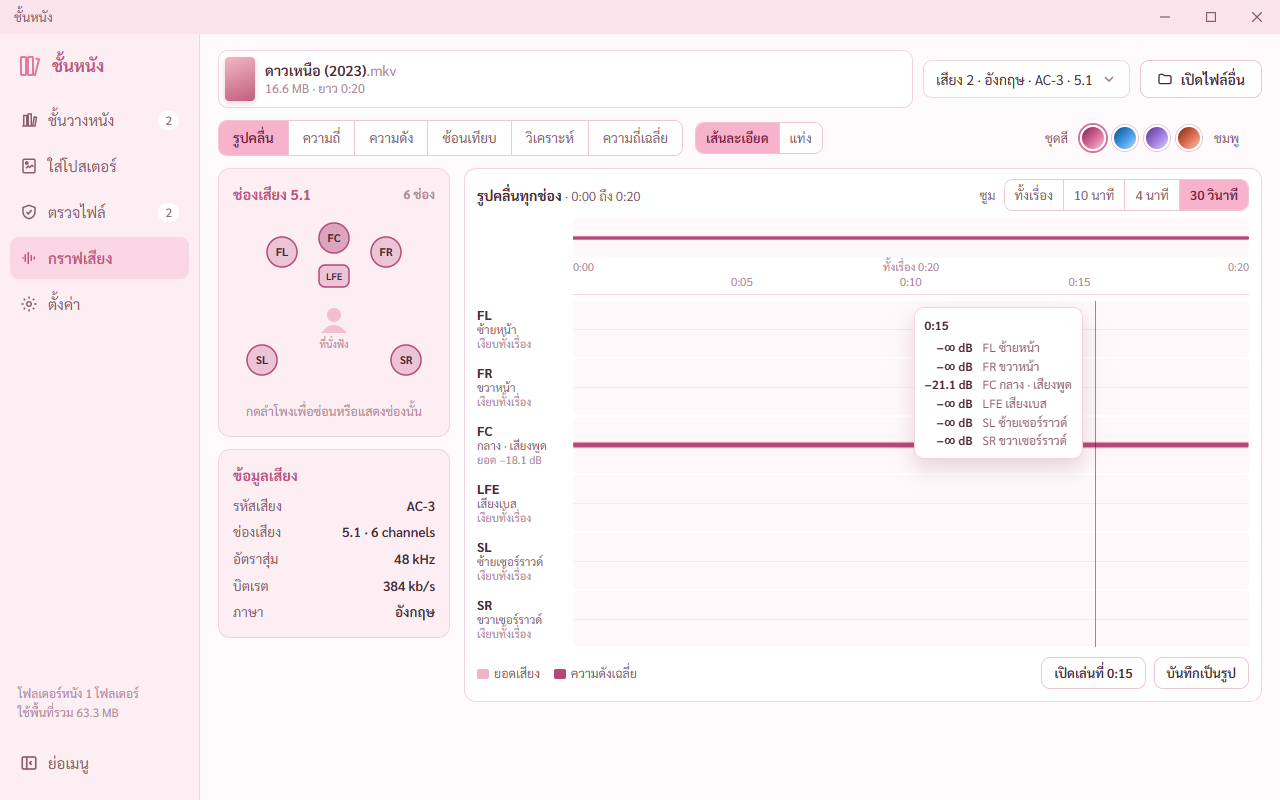
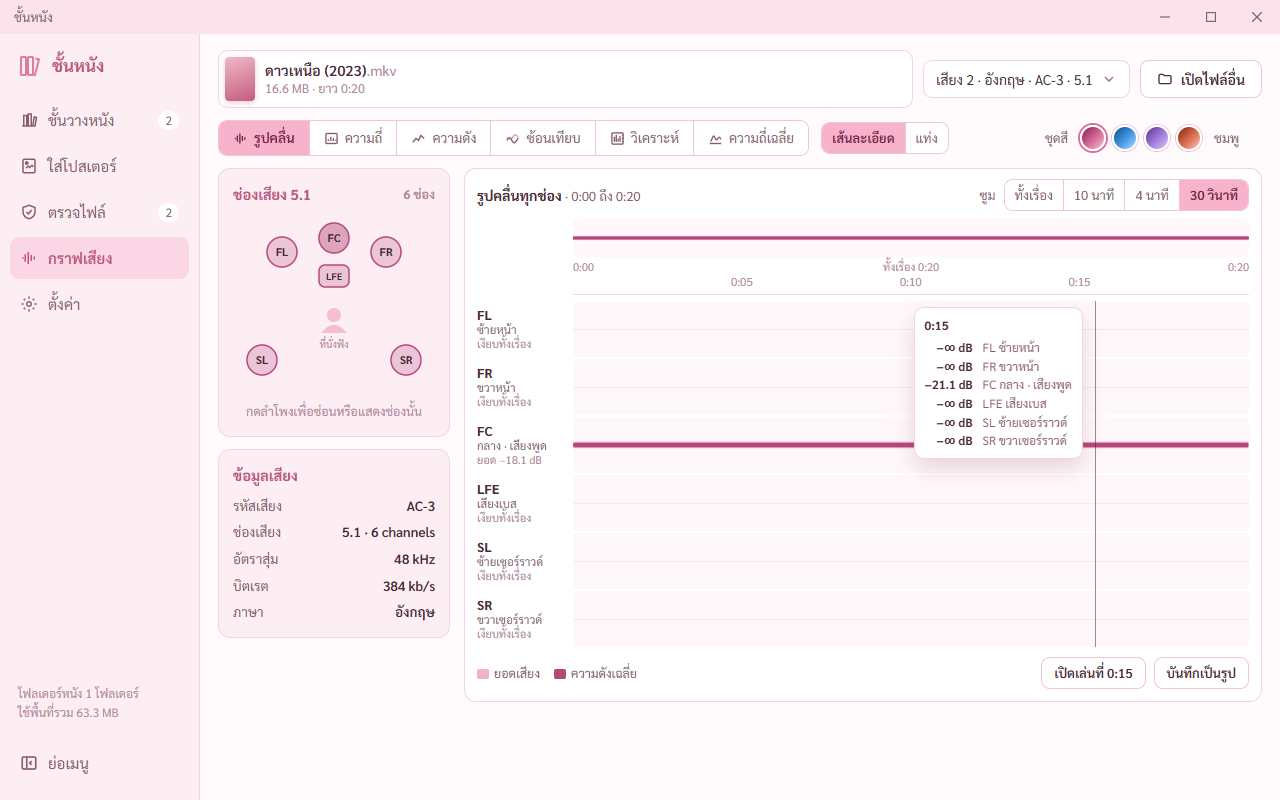
หน้ากราฟเสียง: ความถี่เฉลี่ยหน้าตาแบบ Audacity เส้นโค้งเนียนช่วงเสียงต่ำ ช่องบอกค่าใต้กราฟ เลิกเตือนเสียงฮัมผิดกับเพลง และไอคอนปุ่ม 6 แบบตามมอคอัป
เป้าหมาย
--------
- พี่กันทัก *"กราฟมันยังไม่เหมือนใน audicity เลย"* พร้อมภาพหน้าต่าง Frequency Analysis ของ Audacity
- *"https://github.com/audacity/audacity หารูปแบบมาในนี้ได้มั้ย"* · *"ปล ไม่ต้องคล้ายแบบ 100% เเค่ปรับให้เข้ากับธีมเว็บเรา"*
- ภาพมอคอัปที่พี่กันส่งมาตอนสั่งงานคิวถัดไป ทำให้แคลร์เห็นว่าปุ่ม 6 แบบในโปรแกรมไม่มีไอคอนแบบมอคอัป
- รอบนี้ไม่แตะ ฝั่ง Rust (ตัวคิดความถี่เฉลี่ยเดิม) · แบบอื่นของหน้ากราฟ
- งานที่รับไว้แล้วยังไม่ทำ อยู่หัวข้อต่อไป

ผลลัพธ์
-------
| เรื่อง | ก่อน | หลัง |
|---|---|---|
| ตัวเทสหน้ากราฟ (ตัวที่สร้างจริง) | 44 ข้อ | 46 ข้อ ผ่านครบ |
| เพลงจริง 96 kHz ของพี่กัน | เตือนเสียงฮัมที่ 60 Hz (ผิด) | ไม่พบเสียงฮัม |
| ยอดใกล้สุดของไฟล์เสียงฮัม | 51 Hz (G#1) ตอนลองเส้นโค้งแบบ Audacity | 50 Hz (G1) |

ที่ทำ
----

[1] กราฟความถี่เฉลี่ยหน้าตาแบบ Audacity — src/pages/GraphPage.tsx (PsdView)
---------------------------------------------------------------------------
เดิม       เส้นสีเข้มกับพื้นจางใต้เส้น · แกน dB ตายตัว 0 ถึง −110 ขีดทุก 10 · เส้นตารางแนวตั้งเฉพาะตรงตัวเลข · กล่องลอยบอกค่าตามเมาส์
ใหม่       ระบายทึบสีเดียวใต้เส้น ใช้สีกลางของชุดสี (ชุดม่วงใกล้สีของ Audacity) · แกน dB บนสุดปัดจากค่าสูงสุดของเสียงจริงเป็นเลขคูณ 6 ขีดทุก 6 dB (ถี่เกินเป็นทุก 12)
           · เส้นตารางแนวตั้ง แบบล็อกทุก 1–9 × 10ⁿ หลักเข้ม ตัวคั่นจาง · แบบเส้นตรงทุก 1 kHz · ตัวเลขแกน 20 Hz … 1 kHz … 40 kHz ไม่ชนกัน · กรอบกราฟขอบเข้ม
[…]

Changed region(s): [[0.1875, 0.125, 0.75, 0.2188]]

diff --git a/src/pages/GraphPage.tsx b/src/pages/GraphPage.tsx
@@ -7,7 +7,7 @@ import { AUDIO_EXT, checkApi, graphApi, inApp, pickFile, pickSave, thumbUrl, typ
 import { useLibrary } from "../lib/library";
 import { useToast } from "../components/Toasts";
 import Dropdown from "../components/Dropdown";
-import { Phr } from "../components/ui";
+import { Phr, Switch } from "../components/ui";
 import { fmtSize } from "../lib/format";
 
 export type GraphReq = { path: string; t?: number };
@@ -27,6 +27,16 @@ const HEAT = ["#000000", "#000036", "#180062", "#4f007b", "#81007e", "#ae0068", 
 const MONO = ["#000000", "#ffffff"];
 /** สีเทียบช่อง ซ้าย ขวา กลาง · 3 สีแรกของชุดสีตั้งต้นสกิล dataviz ผ่านตัวตรวจทุกคู่ · สีตามช่อง */
 const CMP: Record<string, string> = { FL: "#2a78d6", FR: "#eb6834", FC: "#1baf7a" };
+/** ไอคอนนำหน้าปุ่ม 6 แบบ ตามมอคอัป (ตกหล่นตอนทำรอบแรก พี่กันส่งภาพมอคอัปมา 7 พ.ย. 2569 แคลร์เห็นเอง) */
+const vi = (children: React.ReactNode) => <svg width="15" height="15" viewBox="0 0 24 24" fill="none" stroke="currentColor" strokeWidth="2.2" aria-hidden="true">{children}</svg>;
+const VIEW_ICON: Record<View, React.ReactNode> = {
+  wave: vi(<path d="M3 12h2M7 7v10M11 4v16M15 8v8M19 10v4" />),
+  spec: vi(<><rect x="3" y="4" width="18" height="16" rx="2" /><path d="M7 16v-3M11 16V9M15 16v-5M19 16v-2" /></>),
+  loud: vi(<path d="M3 18l5-6 4 3 4-8 5 5" />),
+  cmp: vi(<><path d="M3 15c3-6 5-6 8 0s5 6 10-4" /><path d="M3 10c4 4 7 4 10-1s5-4 8 1" opacity=".55" /></>),
+  spek: vi(<><rect x="3" y="3" width="18" height="18" rx="2" /><path d="M7 17V9M10 17V6M13 17v-5M16 17V8" /><path d="M21 7h-2M21 12h-2M21 17h-2" /></>),
+  psd: vi(<><path d="M3 20h18" /><path d="M4 17c2-1 3-9 5-9s2 6 4 6 3-4 5-4 2 3 3 3" /></>),
+};
 const VIEWS: [View, string][] = [["wave", "รูปคลื่น"], ["spec", "ความถี่"], ["loud", "ความดัง"], ["cmp", "ซ้อนเทียบ"], ["spek", "วิเคราะห์"], ["psd", "ความถี่เฉลี่ย"]];
 const ZOOMS: [number | "all", string][] = [["all", "ทั้งเรื่อง"], [600, "10 นาที"], [240, "4 นาที"], [30, "30 วินาที"]];
 const PSD_SPANS: [number | "all", string][] = [[10, "10 วินาที"], [30, "30 วินาที"], [120, "2 นาที"], ["all", "ทั้งเรื่อง"]];
@@ -42,7 +52,6 @@ const lines = (s: string) => s.split(" · ").map((l) => <div key={l}><Phr>{l}</P
 /** ยอดหรือความดังเฉลี่ยของช่อง (dB) · ช่องที่เงียบทั้งเรื่องบอกว่าเงียบ ไม่ขึ้น −120.0 dB */
 const pkTxt = (v: number) => (v <= -119 ? "เงียบ" : minus(v.toFixed(1)) + " dB");
 const dbTxt = (v: number) => v <= 0.0001 ? "−∞" : minus((20 * Math.log10(v)).toFixed(1));
-const fTxt = (f: number) => f >= 1000 ? (f / 1000).toFixed(2) + " kHz" : Math.round(f) + " Hz";
 const dec = (s: string) => Uint8Array.from(atob(s), (c) => c.charCodeAt(0));
 
 /** ชื่อช่องที่โชว์ · 2 ช่อง L R · ช่องเดียว M */
@@ -441,8 +450,8 @@ export default function GraphPage({ req, onConsumed }: { req: GraphReq | null; o
   );
   const ctl = (
     <div className="agctl">
-      <div className="seg">{VIEWS.map(([k, l]) => <button key={k} type="button" className={view === k ? "on" : ""} onClick={() => setPref("view", k)} data-view={k}
-        disabled={k === "cmp" && !names.includes("FL")} title={k === "cmp" && !names.includes("FL") ? "ซ้อนเทียบใช้กับแทร็กที่มีช่องซ้ายขวา" : undefined}>{l}</button>)}</div>
+      <div className="seg agviews">{VIEWS.map(([k, l]) => <button key={k} type="button" className={view === k ? "on" : ""} onClick={() => setPref("view", k)} data-view={k}
+        disabled={k === "cmp" && !names.includes("FL")} title={k === "cmp" && !names.includes("FL") ? "ซ้อนเทียบใช้กับแทร็กที่มีช่องซ้ายขวา" : undefined}>{VIEW_ICON[k]}{l}</button>)}</div>
       {view === "wave" && seg<"fine" | "bars">([["fine", "เส้นละเอียด"], ["bars", "แท่ง"]], prefs.style, (v) => setPref("style", v), "data-style")}
       {view === "spec" && seg<"theme" | "rainbow">([["theme", "สีตามชุด"], ["rainbow", "สีรุ้ง"]], prefs.cmap, (v) => setPref("cmap", v), "data-cmap")}
       <span className="lbl" style={{ marginLeft: "auto" }}>ชุดสี</span>
@@ -542,7 +551,7 @@ export default function GraphPage({ req, onConsumed }: { req: GraphReq | null; o
         </div>
         <div className="agfoot">
           {view === "wave"
-            ? <div className="lg">{prefs.style === "bars" ? <span>ความสูงแท่ง คือยอดเสียงช่วงนั้น</span> : <><span><i style={{ background: th.peak }} />ยอดเสียง</span><span><i style={{ background: th.rms }} />ความดังเฉลี่ย</span></>}{marks.length > 0 && <span style={{ color: "#b03535" }}><i style={{ background: "rgba(208,59,59,.25)", border: "1px solid rgba(208,59,59,.75)" }} />จุดเสีย</span>}</div>
+            ? <div className="lg">{prefs.style === "bars" ? <span><svg width="22" height="14" viewBox="0 0 22 14" style={{ verticalAlign: -2, marginRight: 5 }} aria-hidden="true"><rect width="22" height="14" rx="3" fill={th.lane} stroke={th.peak} /><rect x="4" y="5" width="2" height="4" rx="1" fill={th.rms} /><rect x="8" y="2" width="2" height="10" rx="1" fill={th.rms} /><rect x="12" y="4" width="2" height="6" rx="1" fill={th.rms} /><rect x="16" y="3" width="2" height="8" rx="1" fill={th.rms} /></svg>ความสูงแท่ง คือยอดเสียงช่วงนั้น</span> : <><span><i style={{ background: th.peak }} />ยอดเสียง</span><span><i style={{ background: th.rms }} />ความดังเฉลี่ย</span></>}{marks.length > 0 && <span style={{ color: "#b03535" }}><i style={{ background: "rgba(208,59,59,.25)", border: "1px solid rgba(208,59,59,.75)" }} />จุดเสีย</span>}</div>
             : <div className="speclegend"><span className="nw">−120 dB</span><span className="rampbar" style={{ background: `linear-gradient(90deg,${(prefs.cmap === "rainbow" ? RAINBOW : th.ramp).join(",")})` }} /><span className="nw">0 dB</span><span style={{ marginLeft: 10 }}>แกนตั้ง 20 Hz ล่าง ถึง {Math.round((t?.rate ?? 48000) / 2000)} kHz บน</span></div>}
           <div style={{ display: "flex", gap: 8 }}><button type="button" className="btn btn-ghost btn-sm" onClick={play} data-graphplay>เปิดเล่นที่ {tfmt(at)}</button><button type="button" className="btn btn-ghost btn-sm" onClick={saveImage}>บันทึกเป็นรูป</button></div>
         </div>
@@ -828,6 +837,10 @@ function SpekView({ ov, win, track, fileName, names, t0, t1, zoomBox, scmap, set
 
 /* ---------- ความถี่เฉลี่ย (แบบ Plot Spectrum ของ Audacity) ---------- */
 const PSM = { L: 52, R: 18, T: 14, B: 30 };
+/** ค่าบนเส้นโค้งผ่าน 4 จุดที่ตำแหน่ง 0 1 2 3 (พหุนามลากรานจ์ดีกรีสาม) · x คือตำแหน่งระหว่าง 0 ถึง 3 */
+function cubicAt(y0: number, y1: number, y2: number, y3: number, x: number) {
+  return y0 * -(x - 1) * (x - 2) * (x - 3) / 6 + y1 * x * (x - 2) * (x - 3) / 2 - y2 * x * (x - 1) * (x - 3) / 2 + y3 * x * (x - 1) * (x - 2) / 6;
+}
 function PsdView({ psd, names, psdCh, setPsdCh, psdLog, setPsdLog, psdSize, setPsdSize, th, ov, t0, t1, zoomBox, onPick, f, setF, fileName, save, exportRef, plotRef, toast }: CommonProps & {
   psd: GPsd | null; names: string[]; psdCh: string; setPsdCh: (v: string) => void; psdLog: boolean; setPsdLog: (b: boolean) => void; psdSize: number; setPsdSize: (n: number) => void; th: Theme; ov: GOverview; t0: number; t1: number;
   zoomBox: React.ReactNode; onPick: (t: number) => void; f: number | null; setF: (f: number | null) => void; fileName: string; toast: ReturnType<typeof useToast>;
@@ -848,35 +861,118 @@ function PsdView({ psd, names, psdCh, setPsdCh, psdLog, setPsdLog, psdSize, setP
     return out;
     // eslint-disable-next-line react-hooks/exhaustive-deps
   }, [psd]);
-  /** เสียงฮัมจากไฟบ้าน 50 Hz ของไทยกับเลขคูณ · 60 Hz ของไฟล์จากต่างประเทศ · คลาดได้ 4% หรือราวครึ่งช่องความถี่ */
-  const HUM = [50, 100, 150, 200, 250, 300, 350, 60, 120, 180, 240, 300, 360];
-  const hum = peaks.flatMap(([fr, d]) => { const h = HUM.find((x) => Math.abs(fr - x) < Math.max(x * 0.04, fOf(0.75))); return d > -70 && fr < 400 && h ? [[fr, d, h] as const] : []; });
+  /** เสียงฮัมจากไฟบ้าน 50 Hz ของไทยกับเลขคูณ · 60 Hz ของไฟล์จากต่างประเทศ
+      ต้องเจอยอดแคบในตระกูลเดียวกันอย่างน้อย 2 ยอด (เช่น 50 กับ 100) · คลาดได้ 3% หรือ 0.3 ช่องความถี่
+      (เดิมยอดเดียวก็เตือน คลาดได้ 0.75 ช่อง เพลงจริง 96 kHz ช่องละ 23 Hz โน้ตเบสใกล้ 60 Hz เลยโดนเตือนว่าเป็นเสียงฮัม เจอตอนตรวจภาพ 7 พ.ย. 2569) */
+  const hum = useMemo(() => {
+    for (const base of [50, 60]) {
+      const fam = [1, 2, 3, 4, 5, 6, 7].map((k) => base * k);
+      const hit = peaks.flatMap(([fr, d]) => { const h = fam.find((x) => Math.abs(fr - x) < Math.max(x * 0.03, fOf(0.3))); return d > -70 && fr < 400 && h ? [[fr, d, h] as const] : []; });
+      if (new Set(hit.map((x) => x[2])).size >= 2) return hit;
+    }
+    return [] as (readonly [number, number, number])[];
+    // eslint-disable-next-line react-hooks/exhaustive-deps
+  }, [peaks]);
   const topF = useMemo(() => { if (!psd) return 0; const d = psd.db[0]; for (let i = d.length - 1; i > 0; i--) if (d[i] > -90) return fOf(i); return 0; /* eslint-disable-next-line react-hooks/exhaustive-deps */ }, [psd]);
   const X = (fr: number, w: number) => { const PW = w - PSM.L - PSM.R; return psdLog ? PSM.L + (Math.log10(Math.max(fr, 20)) - Math.log10(20)) / (Math.log10(nyq) - Math.log10(20)) * PW : PSM.L + fr / nyq * PW; };
+  /* หน้าตาแบบ Audacity (พี่กันส่งภาพหน้าต่าง Frequency Analysis ของ Audacity มา 7 พ.ย. 2569 *"กราฟมันยังไม่เหมือนใน audicity เลย"*)
+     ระบายทึบสีเดียวใต้เส้น · แกน dB ปรับตามเสียงจริง ขีดทุก 6 dB · เส้นตารางถี่ทุกหลัก (20 30 40 … 100 200 300 …) เปิดปิดได้
+     ช่วง dB เลือกได้ (แทนแถบซูมแนวตั้งของ Audacity) · บอกค่าที่ชี้กับยอดใกล้สุดในช่องใต้กราฟ วงกลมที่ยอด */
+  const [grids, setGrids] = useState(true);
+  const [range, setRange] = useState(90);
+  const start = psdLog ? Math.max(1, Math.ceil(20 / fOf(1))) : 0;
+  const top = useMemo(() => {
+    if (!psd) return 0;
+    let m = -150; for (const d of psd.db) for (let i = start; i < d.length; i++) m = Math.max(m, d[i]);
+    return Math.min(0, Math.ceil(m / 6) * 6);
+    // eslint-disable-next-line react-hooks/exhaustive-deps
+  }, [psd, start]);
+  const lo = top - range;
+  /* ค่าที่วาดต่อจุดภาพ ใช้หลักเดียวกับ Audacity (อ่านจาก au3-fft/SpectrumAnalyst.cpp GetProcessedValue · เขียนเอง ไม่ได้คัดลอก Audacity ใช้ GPL)
+     จุดภาพแคบกว่าหนึ่งช่องความถี่ (เสียงต่ำบนแกนล็อก) ลากเส้นโค้งผ่าน 4 ช่องข้างเคียง เส้นจึงเนียน ไม่เป็นหยักตรง ๆ แบบเดิม
+     จุดภาพครอบหลายช่อง ใช้ค่าเฉลี่ยถ่วงตามส่วนที่ครอบ */
+  const binHz = (psd?.rate ?? 48000) / (psd?.size ?? 4096);
+  const valRange = (d: number[], f0: number, f1: number) => {
+    let b0 = f0 / binHz, b1 = f1 / binHz;
+    if (b1 - b0 < 1) {
+      const mid = (b0 + b1) / 2, i = Math.max(0, Math.min(d.length - 4, Math.floor(mid) - 1));
+      return cubicAt(d[i], d[i + 1], d[i + 2], d[i + 3], mid - i);
+    }
+    b0 = Math.max(0, b0); b1 = Math.min(d.length - 1, b1);
+    let s = 0, i0 = Math.floor(b0), i1 = Math.floor(b1);
+    if (i1 > i0) { s += d[i0] * (i0 + 1 - b0); for (let i = i0 + 1; i < i1; i++) s += d[i]; s += d[i1] * (b1 - i1); } else s = d[i0] * (b1 - b0);
+    return s / Math.max(1e-9, b1 - b0);
+  };
+  const fAt = (x: number, PW: number) => (psdLog ? 20 * Math.pow(nyq / 20, x / PW) : Math.max(0, x / PW * nyq));
+  /** ยอดทุกยอดย่อยแบบ Audacity (FindPeak) ใช้กับช่องยอดใกล้สุด · ตำแหน่งจริงคิดด้วยพาราโบลาผ่าน 3 ช่อง
+      (เส้นโค้งผ่าน 4 ช่องแบบ Audacity เลื่อนยอดฮัม 50 Hz ไปเป็น 51 Hz เจอตอนตรวจภาพ · พาราโบลาบนค่า dB ของหน้าต่าง Hann ได้ 50 Hz) */
+  const allPeaks = useMemo(() => {
+    if (!psd) return [] as [number, number][];
+    const d = psd.db[0], out: [number, number][] = [];
+    for (let b = 1; b < d.length - 1; b++) {
+      if (!(d[b] > d[b - 1] && d[b] >= d[b + 1]) || d[b] < -100) continue;
+      const a = d[b - 1], c = d[b + 1], den = a - 2 * d[b] + c, p = den ? Math.max(-0.5, Math.min(0.5, 0.5 * (a - c) / den)) : 0;
+      out.push([(b + p) * binHz, d[b] - 0.25 * (a - c) * p]);
+    }
+    return out;
+    // eslint-disable-next-line react-hooks/exhaustive-deps
+  }, [psd]);
+  const Yof = (d: number, h: number) => PSM.T + (top - Math.max(lo, Math.min(top, d))) / (top - lo) * (h - PSM.T - PSM.B);
   const ref = useCanvas((g, w, h) => {
     g.fillStyle = "#fff"; g.fillRect(0, 0, w, h);
-    const { L, R, T, B } = PSM, PW = w - L - R, PH = h - T - B, lo = -110, hi = 0, Y = (d: number) => T + (hi - Math.max(lo, Math.min(hi, d))) / (hi - lo) * PH;
-    g.font = "11px Sarabun, sans-serif"; g.textAlign = "right"; g.textBaseline = "middle";
-    for (let d = hi; d >= lo; d -= 10) { g.fillStyle = "#f3e2e9"; g.fillRect(L, Math.round(Y(d)), PW, 1); g.fillStyle = "#a88595"; g.fillText(minus(String(d)) + (d === hi ? " dB" : ""), L - 6, Y(d)); }
-    g.textAlign = "center"; g.textBaseline = "top";
-    const ticks = psdLog ? [20, 50, 100, 200, 500, 1000, 2000, 5000, 10000, 20000, 40000] : Array.from({ length: Math.floor(nyq / 2000) + 1 }, (_, i) => i * 2000);
-    for (const fr of ticks) { if (fr > nyq || (psdLog && fr < 20)) continue; const x = X(Math.max(fr, 1), w); g.fillStyle = "#f3e2e9"; g.fillRect(Math.round(x), T, 1, PH); g.fillStyle = "#a88595"; g.fillText(fr >= 1000 ? fr / 1000 + "k" : String(fr), x, T + PH + 6); }
-    g.textAlign = "right"; g.fillText("Hz", L + PW, T + PH + 18);
-    if (!psd) { g.textAlign = "center"; g.textBaseline = "middle"; g.fillStyle = "#b28a9a"; g.font = "13px Sarabun, sans-serif"; g.fillText("กำลังคิดความถี่เฉลี่ยของช่วงที่เลือก", L + PW / 2, T + PH / 2); return; }
-    for (const s of series) {
-      const start = psdLog ? Math.max(1, Math.ceil(20 / fOf(1))) : 0;
-      if (series.length === 1) { g.fillStyle = th.peak; g.globalAlpha = 0.35; g.beginPath(); g.moveTo(X(fOf(start), w), Y(lo)); for (let i = start; i < s.d.length; i++) g.lineTo(X(fOf(i), w), Y(s.d[i])); g.lineTo(X(fOf(s.d.length - 1), w), Y(lo)); g.closePath(); g.fill(); g.globalAlpha = 1; }
-      g.strokeStyle = s.color; g.lineWidth = series.length > 1 ? 2 : 1.6; g.lineJoin = "round"; g.beginPath();
-      for (let i = start; i < s.d.length; i++) { const x = X(fOf(i), w), y = Y(s.d[i]); if (i === start) g.moveTo(x, y); else g.lineTo(x, y); }
-      g.stroke();
+    const { L, R, T, B } = PSM, PW = w - L - R, PH = h - T - B, Y = (d: number) => Yof(d, h);
+    const ink = "#4a2b38", minor = "#efdde5", major = "#dcc0cc";
+    // เส้นตารางแนวนอนทุก 6 dB (ถี่เกินไปเป็นทุก 12) · ตัวเลขทุกเส้น
+    const step = PH * 6 / range >= 16 ? 6 : 12;
+    g.font = "600 11px Sarabun, sans-serif"; g.textAlign = "right"; g.textBaseline = "middle";
+    for (let d = top; d >= lo - 0.01; d -= step) {
+      const y = Math.round(Y(d)) + 0.5;
+      if (grids) { g.strokeStyle = major; g.lineWidth = 1; g.beginPath(); g.moveTo(L, y); g.lineTo(L + PW, y); g.stroke(); }
+      g.fillStyle = ink; g.fillText(minus(String(d)) + " dB", L - 6, y);
     }
-  }, [psd, psdLog, th, series]);
+    // เส้นตารางแนวตั้ง · แบบล็อก ทุก 1–9 × 10ⁿ (หลักเข้ม ตัวคั่นจาง) · แบบเส้นตรง ทุก 1 kHz
+    g.textAlign = "center"; g.textBaseline = "top"; g.font = "600 11px Sarabun, sans-serif";
+    const vline = (fr: number, strong: boolean) => { if (!grids) return; const x = Math.round(X(fr, w)) + 0.5; g.strokeStyle = strong ? major : minor; g.beginPath(); g.moveTo(x, T); g.lineTo(x, T + PH); g.stroke(); };
+    const hz = (fr: number) => (fr >= 1000 ? `${fr / 1000} kHz` : `${fr} Hz`);
+    if (psdLog) {
+      for (let dec = 10; dec <= nyq; dec *= 10) for (let m = 1; m <= 9; m++) { const fr = m * dec; if (fr >= 20 && fr <= nyq) vline(fr, m === 1); }
+      let lastX = -99;
+      for (const fr of [20, 50, 100, 200, 500, 1000, 2000, 5000, 10000, 20000, 40000]) {
+        if (fr > nyq) continue; const x = X(fr, w); const tw = g.measureText(hz(fr)).width;
+        if (x - tw / 2 < lastX + 8 || x + tw / 2 > L + PW + R) continue;
+        g.fillStyle = ink; g.fillText(hz(fr), x, T + PH + 6); lastX = x + tw / 2;
+      }
+    } else {
+      for (let fr = 1000; fr < nyq; fr += 1000) vline(fr, fr % 5000 === 0);
+      const every = nyq > 30000 ? 8000 : 4000;
+      for (let fr = 0; fr <= nyq; fr += every) { g.fillStyle = ink; g.fillText(hz(fr), X(Math.max(fr, 1), w), T + PH + 6); }
+    }
+    if (!psd) { g.textAlign = "center"; g.textBaseline = "middle"; g.fillStyle = "#b28a9a"; g.font = "13px Sarabun, sans-serif"; g.fillText("กำลังคิดความถี่เฉลี่ยของช่วงที่เลือก", L + PW / 2, T + PH / 2); }
+    else if (series.length === 1) {
+      // ระบายทึบสีเดียวจากเส้นลงถึงพื้นกราฟ แบบ Audacity · สีกลางของชุดสี (ชุดม่วงใกล้สีของ Audacity)
+      // ค่าทีละจุดภาพ (valRange) ไม่ใช่ทีละช่องความถี่
+      const s = series[0]; g.fillStyle = th.ramp[4]; g.beginPath(); g.moveTo(L, T + PH);
+      for (let x = 0; x < PW; x++) g.lineTo(L + x + 0.5, Y(valRange(s.d, fAt(x, PW), fAt(x + 1, PW))));
+      g.lineTo(L + PW, T + PH); g.closePath(); g.fill();
+    } else {
+      // เทียบซ้ายขวา (ของเราเพิ่มเอง Audacity ไม่มี) เป็นเส้นสองสีตามช่อง
+      for (const s of series) {
+        g.strokeStyle = s.color; g.lineWidth = 2; g.lineJoin = "round"; g.beginPath();
+        for (let x = 0; x < PW; x++) { const y = Y(valRange(s.d, fAt(x, PW), fAt(x + 1, PW))); if (x) g.lineTo(L + x + 0.5, y); else g.moveTo(L + 0.5, y); }
+        g.stroke();
+      }
+    }
+    g.strokeStyle = ink; g.lineWidth = 1; g.strokeRect(L + 0.5, T + 0.5, PW - 1, PH - 1);
+  }, [psd, psdLog, th, series, grids, range, top]);
   exportRef.current = () => ref.current;
   const [box, setBox] = useState<HTMLDivElement | null>(null);
   const cur = f ?? (hum[0]?.[0] ?? 1000);
-  const W = box?.clientWidth ?? 0, cx = W ? X(cur, W) : 0;
-  const nearest = (fr: number) => peaks.slice().sort((a, b) => Math.abs(Math.log(a[0] / fr)) - Math.abs(Math.log(b[0] / fr)))[0];
-  const valAt = (d: number[], fr: number) => d[Math.max(0, Math.min(d.length - 1, Math.round(fr / fOf(1))))];
+  const W = box?.clientWidth ?? 0, H = box?.clientHeight ?? 0, cx = W ? X(cur, W) : 0;
+  // ยอดใกล้ตำแหน่งชี้ที่สุด วัดระยะแบบล็อก (บนแกนล็อกตรงกับที่ตาเห็นกว่าวัดเป็น Hz แบบ Audacity)
+  const nearest = (fr: number) => allPeaks.slice().sort((a, b) => Math.abs(Math.log(a[0] / fr)) - Math.abs(Math.log(b[0] / fr)))[0];
+  const valAt = (d: number[], fr: number) => valRange(d, fr * 0.999, fr * 1.001);
+  const hzTxt = (fr: number) => `${Math.round(fr).toLocaleString("en-US")} Hz`;
+  const pk = psd ? nearest(cur) : undefined;
   const exportCsv = async () => {
     if (!psd) return;
     const where = await pickSave(fileName.replace(/\.[^.]+$/, "") + " ความถี่เฉลี่ย.csv", "csv", "ตาราง CSV"); if (!where) return;
@@ -894,14 +990,18 @@ function PsdView({ psd, names, psdCh, setPsdCh, psdLog, setPsdLog, psdSize, setP
       <div style={{ position: "relative", marginTop: 8 }} ref={setBox} data-psdbox
         onPointerMove={(e) => { const r = e.currentTarget.getBoundingClientRect(), PW = r.width - PSM.L - PSM.R, x = Math.min(PW, Math.max(0, e.clientX - r.left - PSM.L)); setF(psdLog ? Math.pow(10, Math.log10(20) + x / PW * (Math.log10(nyq) - Math.log10(20))) : Math.max(1, x / PW * nyq)); }}
         onPointerLeave={() => setF(null)}>
-        <canvas className="cv" style={{ height: 320 }} ref={ref} data-psd />
+        <canvas className="cv" style={{ height: 340 }} ref={ref} data-psd />
         {psd && W > 0 && <>
           <div className="xh" style={{ left: cx, top: PSM.T, bottom: PSM.B }} />
-          <div className="tip" style={{ left: cx + 12 + 200 > W ? cx - 212 : cx + 12, top: 24 }}>
-            <div className="t">{fTxt(cur)} · โน้ต {noteOf(cur)}</div>
-            <div className="r">{series.map((s) => <Fragment2 key={s.name} v={minus(Math.round(valAt(s.d, cur)).toString()) + " dB"} k={s.name} color={series.length > 1 ? s.color : undefined} />)}
-              {nearest(cur) && <Fragment2 v={minus(Math.round(nearest(cur)[1]).toString()) + " dB"} k={`ยอดใกล้สุด ${fTxt(nearest(cur)[0])} · ${noteOf(nearest(cur)[0])}`} />}</div>
-          </div></>}
+          {pk && pk[1] >= lo && <div className="psdpk" style={{ left: X(pk[0], W), top: Yof(pk[1], H) }} />}
+        </>}
+      </div>
+      {/* ช่องบอกค่าใต้กราฟ แบบ Cursor กับ Peak ของ Audacity */}
+      <div className="psdread" data-psdreadout>
+        <span className="lbl">ตำแหน่งชี้</span>
+        <span className="psdbox" data-psdcursor>{psd ? `${hzTxt(cur)} (${noteOf(cur)}) = ${series.map((s) => (series.length > 1 ? s.name + " " : "") + minus(Math.round(valAt(s.d, cur)).toString()) + " dB").join(" · ")}` : "—"}</span>
+        <span className="lbl">ยอดใกล้สุด</span>
+        <span className="psdbox" data-psdpeak>{pk ? `${hzTxt(pk[0])} (${noteOf(pk[0])}) = ${minus(pk[1].toFixed(1))} dB` : "—"}</span>
       </div>
       {psd && (hum.length
         ? <div className="stat warn" style={{ marginTop: 10 }} data-psdverdict>{WARN}<div><b><Phr>{`เจอเสียงฮัมจากไฟบ้าน ยอดแคบที่ ${[...new Set(hum.map((x) => x[2]))].sort((a, b) => a - b).join(" ")} Hz`}</Phr></b>{lines("ไฟบ้านในไทย 50 Hz เสียงฮัมจะเป็นยอดแคบที่ 50 กับเลขคูณ · มักมาจากสายไมค์หรือปลั๊กพ่วง · ในหนังอาจเป็นเสียงประกอบที่ตั้งใจใส่")}</div></div>
@@ -910,7 +1010,10 @@ function PsdView({ psd, names, psdCh, setPsdCh, psdLog, setPsdLog, psdSize, setP
       <div className="agfoot"><div style={{ display: "flex", alignItems: "center", gap: 8, flexWrap: "wrap" }}><span className="lbl">แกนความถี่</span>
         <div className="seg sm"><button type="button" className={psdLog ? "on" : ""} onClick={() => setPsdLog(true)} data-psdaxis="log">แบบล็อก</button><button type="button" className={!psdLog ? "on" : ""} onClick={() => setPsdLog(false)} data-psdaxis="lin">เส้นตรง</button></div>
         <span data-psdsize title="ยิ่งมากยิ่งแยกความถี่ละเอียด แต่ช้าลง"><Dropdown label="ความละเอียด" value={String(psdSize)} onChange={(v) => setPsdSize(Number(v))}
-          options={[1024, 4096, 16384].map((n) => ({ value: String(n), label: `ความละเอียด ${n.toLocaleString("en-US")}` }))} /></span></div>
+          options={[1024, 4096, 16384].map((n) => ({ value: String(n), label: `ความละเอียด ${n.toLocaleString("en-US")}` }))} /></span>
+        <span className="lbl">ช่วง</span>
+        <div className="seg sm">{[60, 90, 120].map((r) => <button key={r} type="button" className={range === r ? "on" : ""} onClick={() => setRange(r)} data-psdrange={r}>{r} dB</button>)}</div>
+        <span className="lbl">เส้นตาราง</span><span data-psdgrid style={{ display: "inline-flex" }}><Switch on={grids} onChange={setGrids} label="เส้นตาราง" /></span></div>
         <div style={{ display: "flex", gap: 8 }}><button type="button" className="btn btn-ghost btn-sm" onClick={exportCsv}>ส่งออกเป็นตาราง</button><button type="button" className="btn btn-ghost btn-sm" onClick={save}>บันทึกเป็นรูป</button></div></div>
     </div>
   );

diff --git a/src/styles/app.css b/src/styles/app.css
@@ -543,3 +543,9 @@ tbody tr:last-child td { border-bottom: 0; }
 .graph-recent { display: grid; grid-template-columns: repeat(auto-fill, minmax(280px, 1fr)); gap: 8px; }
 .graph-recent .dd { height: auto; min-height: 42px; padding: 6px 12px; }
 @media (max-width: 1100px) { .tiles { grid-template-columns: repeat(2, 1fr); } }
+/* ความถี่เฉลี่ยแบบ Audacity · วงกลมที่ยอดใกล้สุด กับช่องบอกค่าใต้กราฟ (Cursor · Peak) */
+.psdpk { position: absolute; width: 11px; height: 11px; margin: -6px 0 0 -6px; border-radius: 50%; border: 2px solid #4a2b38; background: #fff; pointer-events: none; }
+.psdread { display: flex; align-items: center; gap: 8px; flex-wrap: wrap; margin-top: 8px; }
+.psdbox { min-width: 230px; padding: 4px 10px; border: 1px solid var(--line); border-radius: 7px; background: var(--win2); font-size: 13px; color: var(--txt); font-variant-numeric: tabular-nums; white-space: nowrap; }
+/* ปุ่ม 6 แบบมีไอคอนนำหน้า ตามมอคอัป */
+.agviews button { display: inline-flex; align-items: center; gap: 6px; }
